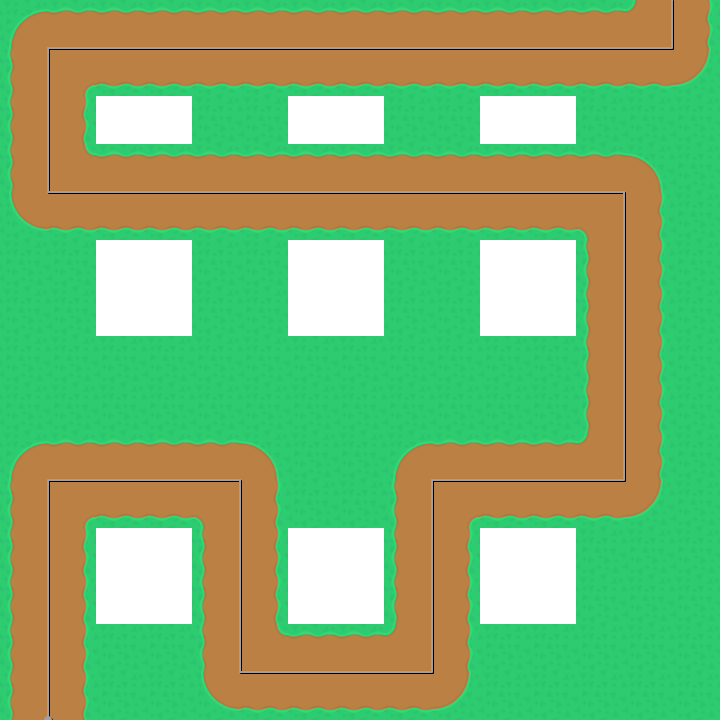
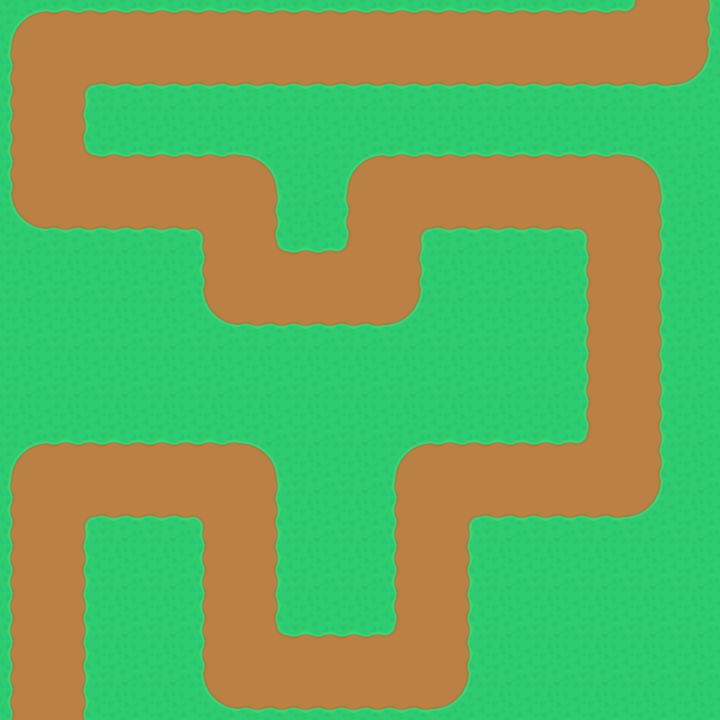
Add level choice(random)

diff --git a/main.py b/main.py
@@ -1,6 +1,7 @@
 import pygame
 import json
 import time
+import random
 
 
 import settings
@@ -30,7 +31,11 @@ selected_turret = None
                                     #Картинки
 
 #Карта
-map_image = pygame.image.load('levels/level3.png').convert_alpha()
+map_images = [pygame.image.load('levels/level.png').convert_alpha(),
+              pygame.image.load('levels/level2.png').convert_alpha(),
+              pygame.image.load('levels/level3.png').convert_alpha()]
+
+#map_image = random.choice(map_images)
 
 #Враги
 enemy_images = {
@@ -63,8 +68,20 @@ shot_sound.set_volume(0.5)
 turret_sheet = pygame.image.load('assets/images/turrets/turret_1.png').convert_alpha()
 
 #JSON для уровня
-with open('levels/level3.tmj') as file:
-    world_data = json.load(file)
+
+with open('levels/level.tmj') as file:
+    world_data1 = json.load(file)
+
+with open('levels/level2.tmj') as file2:
+    world_data2 = json.load(file2)
+
+with open('levels/level3.tmj') as file3:
+    world_data3 = json.load(file3)
+
+world_datas = [world_data1,world_data2,world_data3]
+world_data = random.choice(world_datas)
+
+
 
 #Шрифты
 text_font = pygame.font.SysFont("Consolas",24,bold = True)
@@ -115,7 +132,8 @@ def clear_select():
 
 
 #Создание уровня
-world = World(world_data,map_image)
+
+world = World(world_data,map_images[world_datas.index(world_data)])
 world.process_data()
 world.spawn_enemies( )
 
@@ -242,7 +260,7 @@ while run:
             placing_turrets = False
             selected_turret = None
             last_enemy_spawn = pygame.time.get_ticks()
-            world = World(world_data,map_image)
+            world = World(world_data,random.choice(map_images))
             world.process_data()
             world.spawn_enemies()
             enemy_group.empty()
